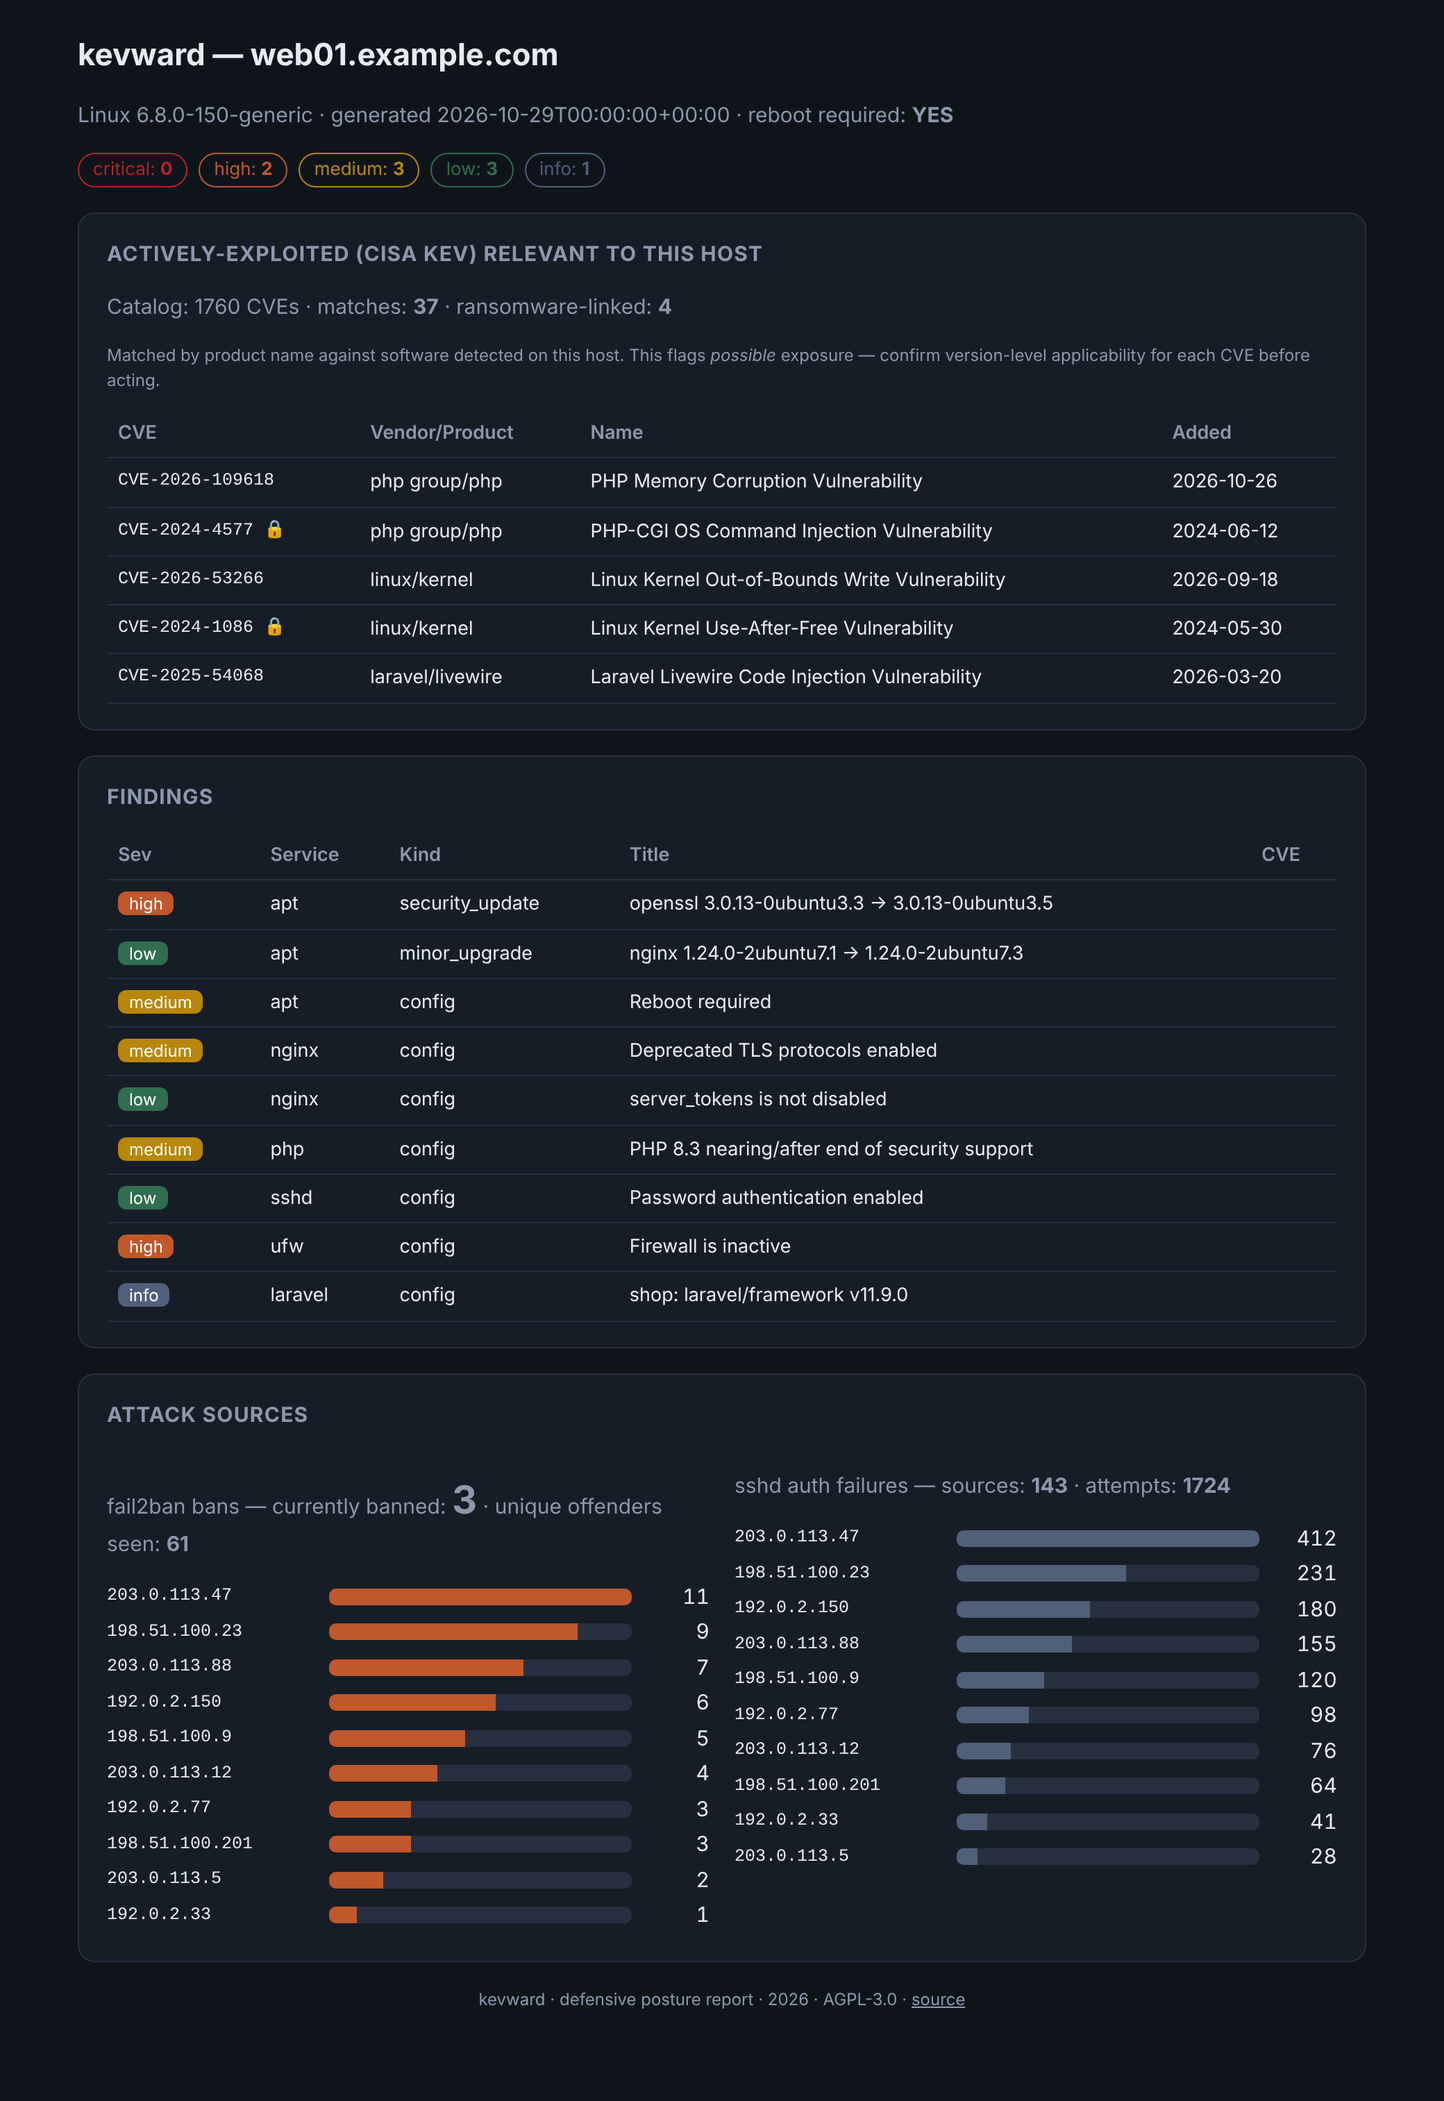
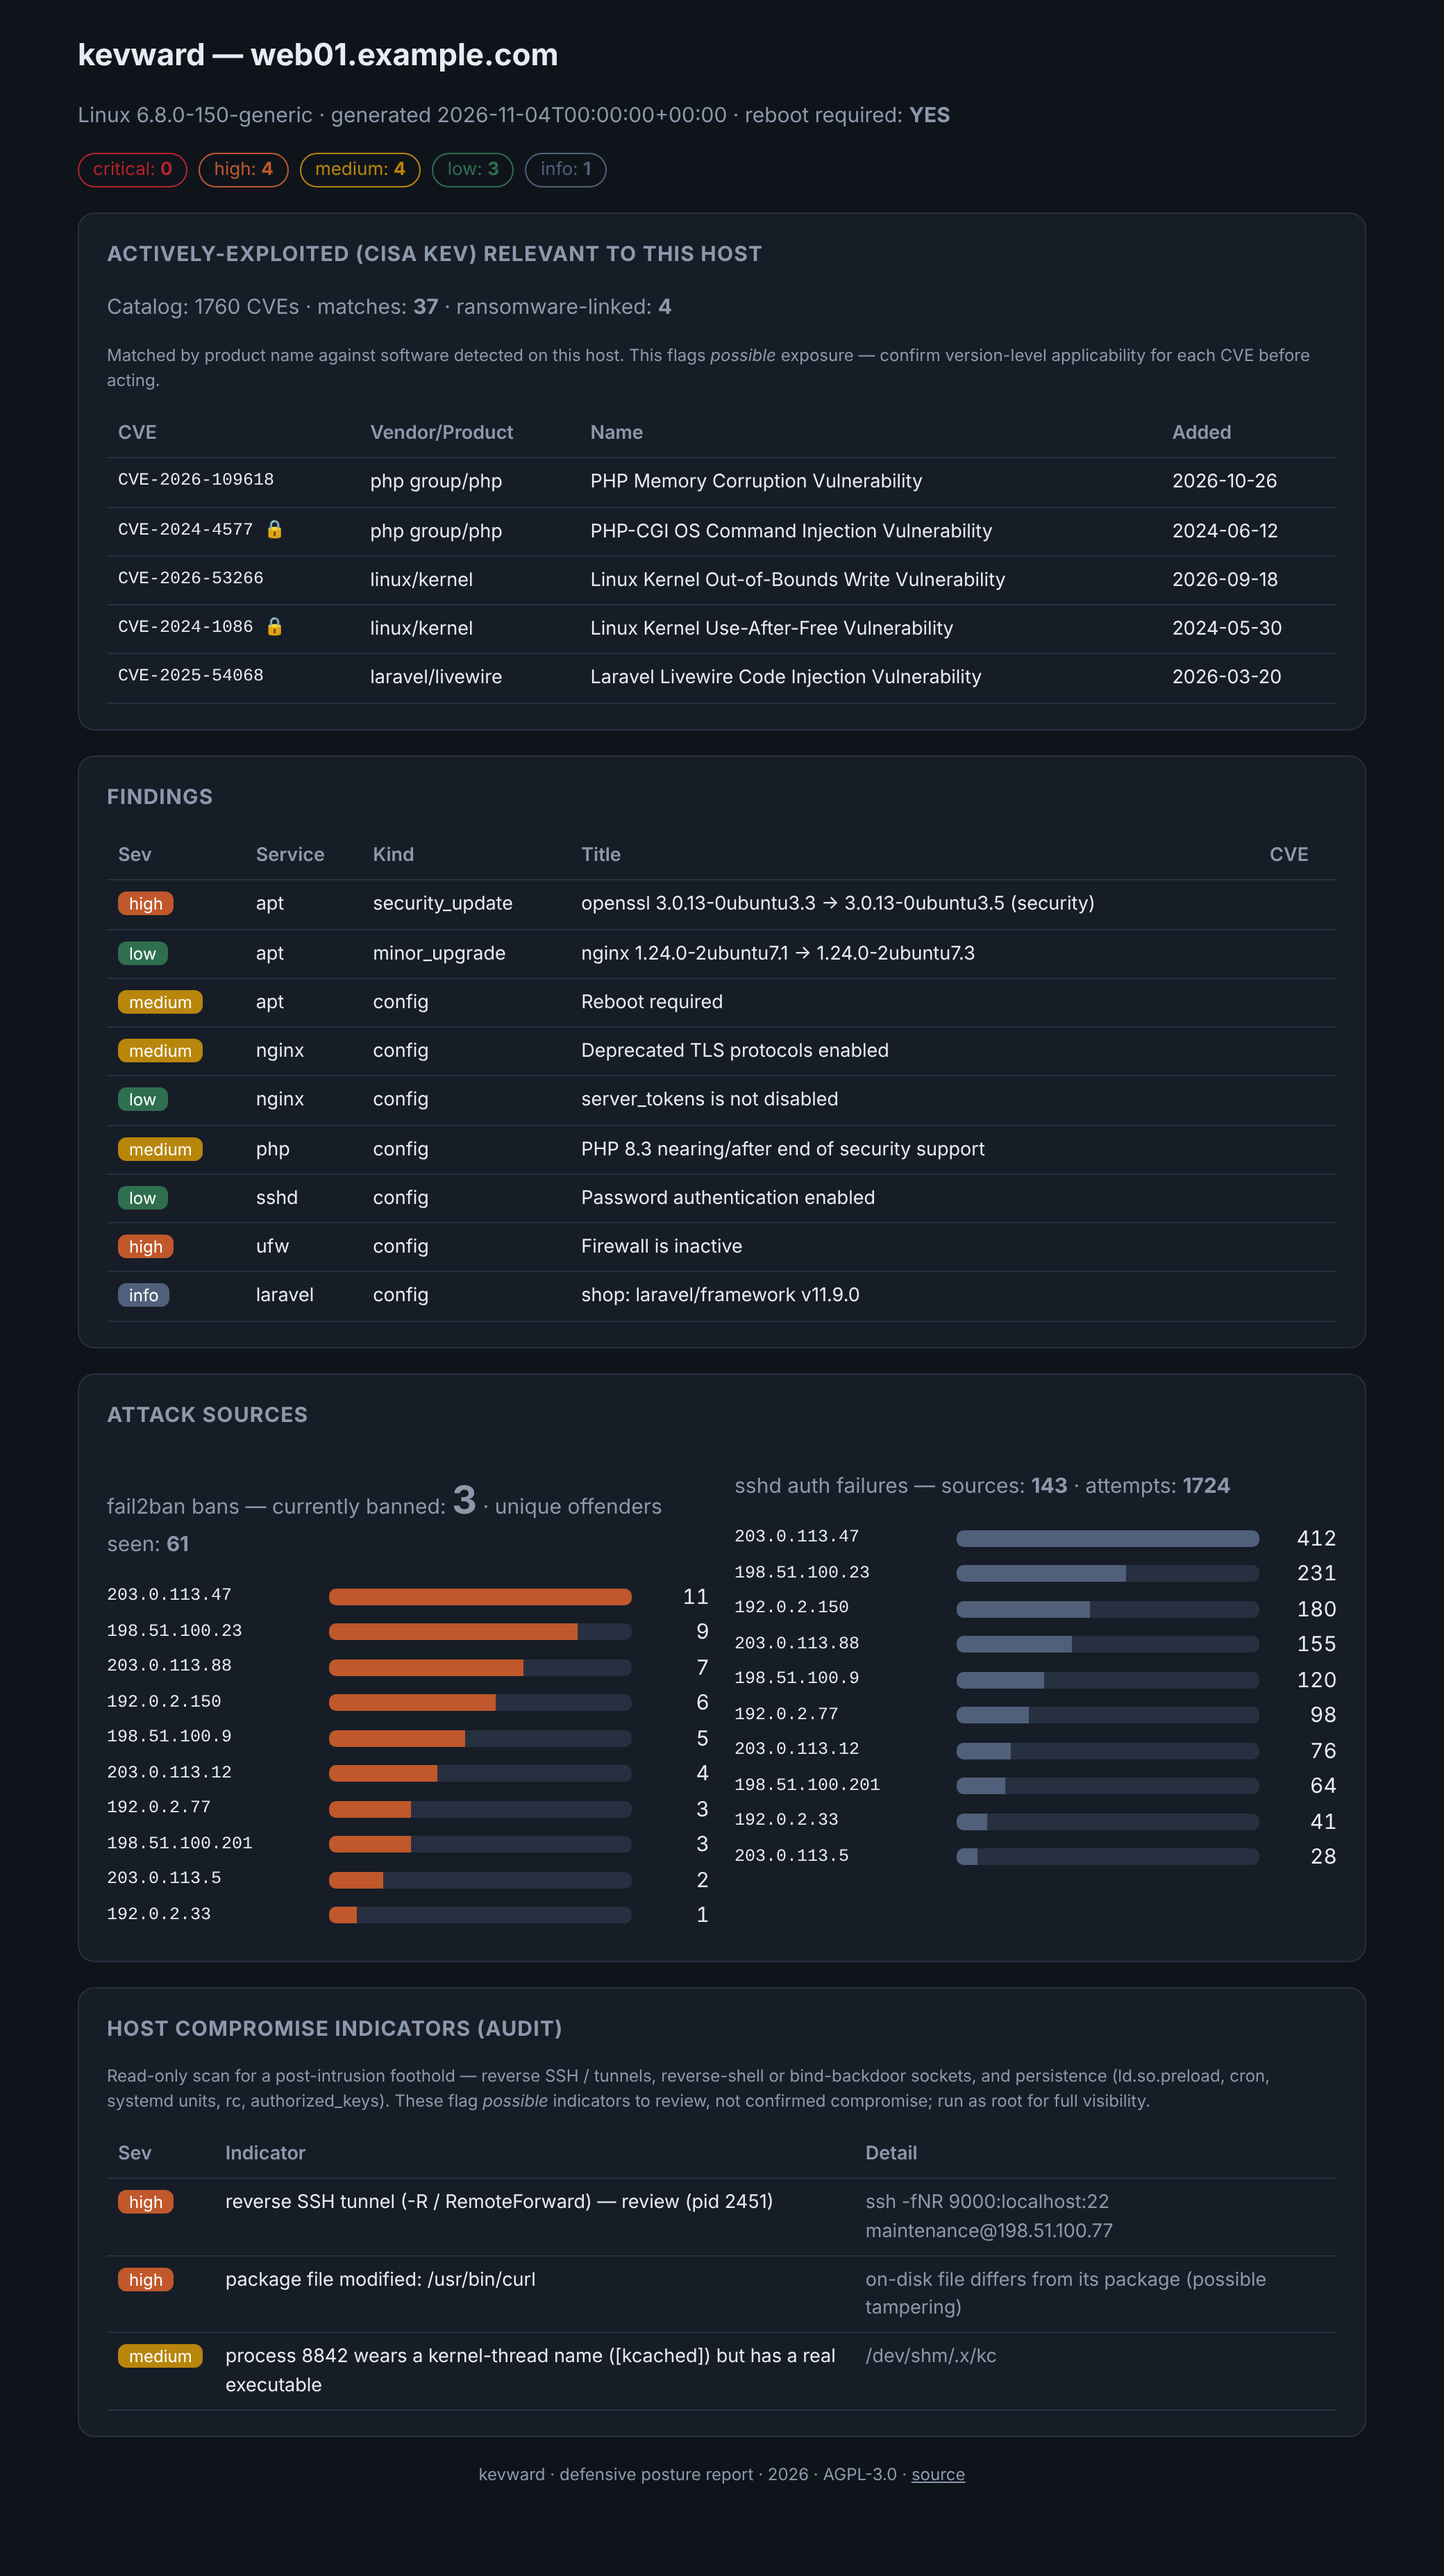
docs: refresh report screenshot to show the audit section (0.8.0)
The hero report screenshot predated `kevward audit`, so the README didn't show
kevward's current one-page story. Regenerate report-light/-dark.png from demo
data that includes the "Host compromise indicators (audit)" section (reverse
SSH, a dpkg-integrity hit, a masqueraded process) alongside the usual posture /
KEV / attacker sections, and update the caption to mention `--audit`. Demo host
is example.com and demo IPs use RFC 5737 documentation ranges.

Claude-Session: https://claude.ai/code/session_0139omCywSYVtWNN18QJWqCJ

diff --git a/README.md b/README.md
@@ -15,8 +15,8 @@
 </p>
 
 <sub>One `kevward report` — patch posture, actively-exploited (CISA KEV) matches,
-and attacker IPs — in a single self-contained HTML page (light & dark themes).
-Demo data shown.</sub>
+attacker IPs, and (with `--audit`) host compromise indicators — in a single
+self-contained HTML page (light & dark themes). Demo data shown.</sub>
 
 kevward runs *on a server* and answers three questions a sysadmin asks every
 morning:
